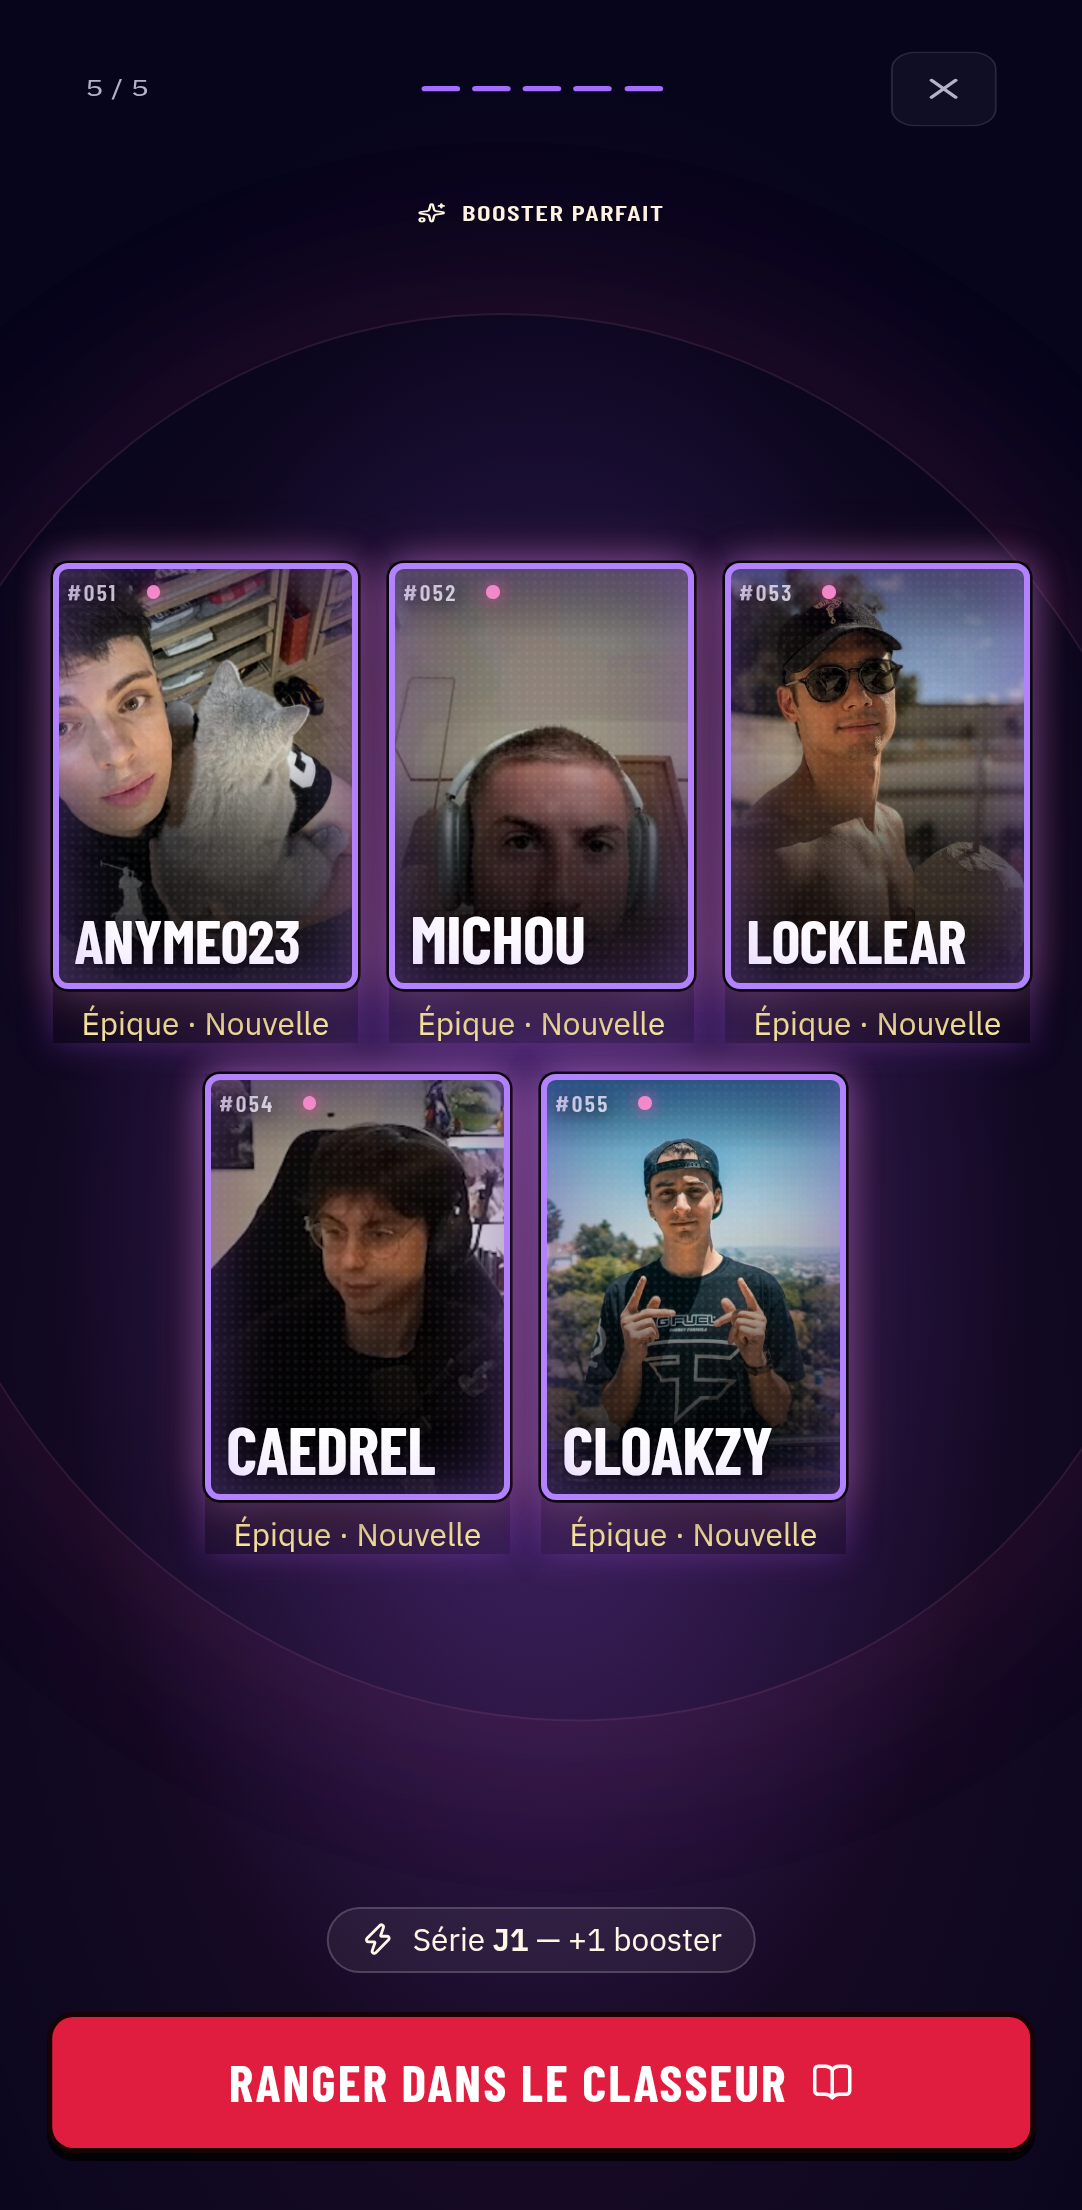
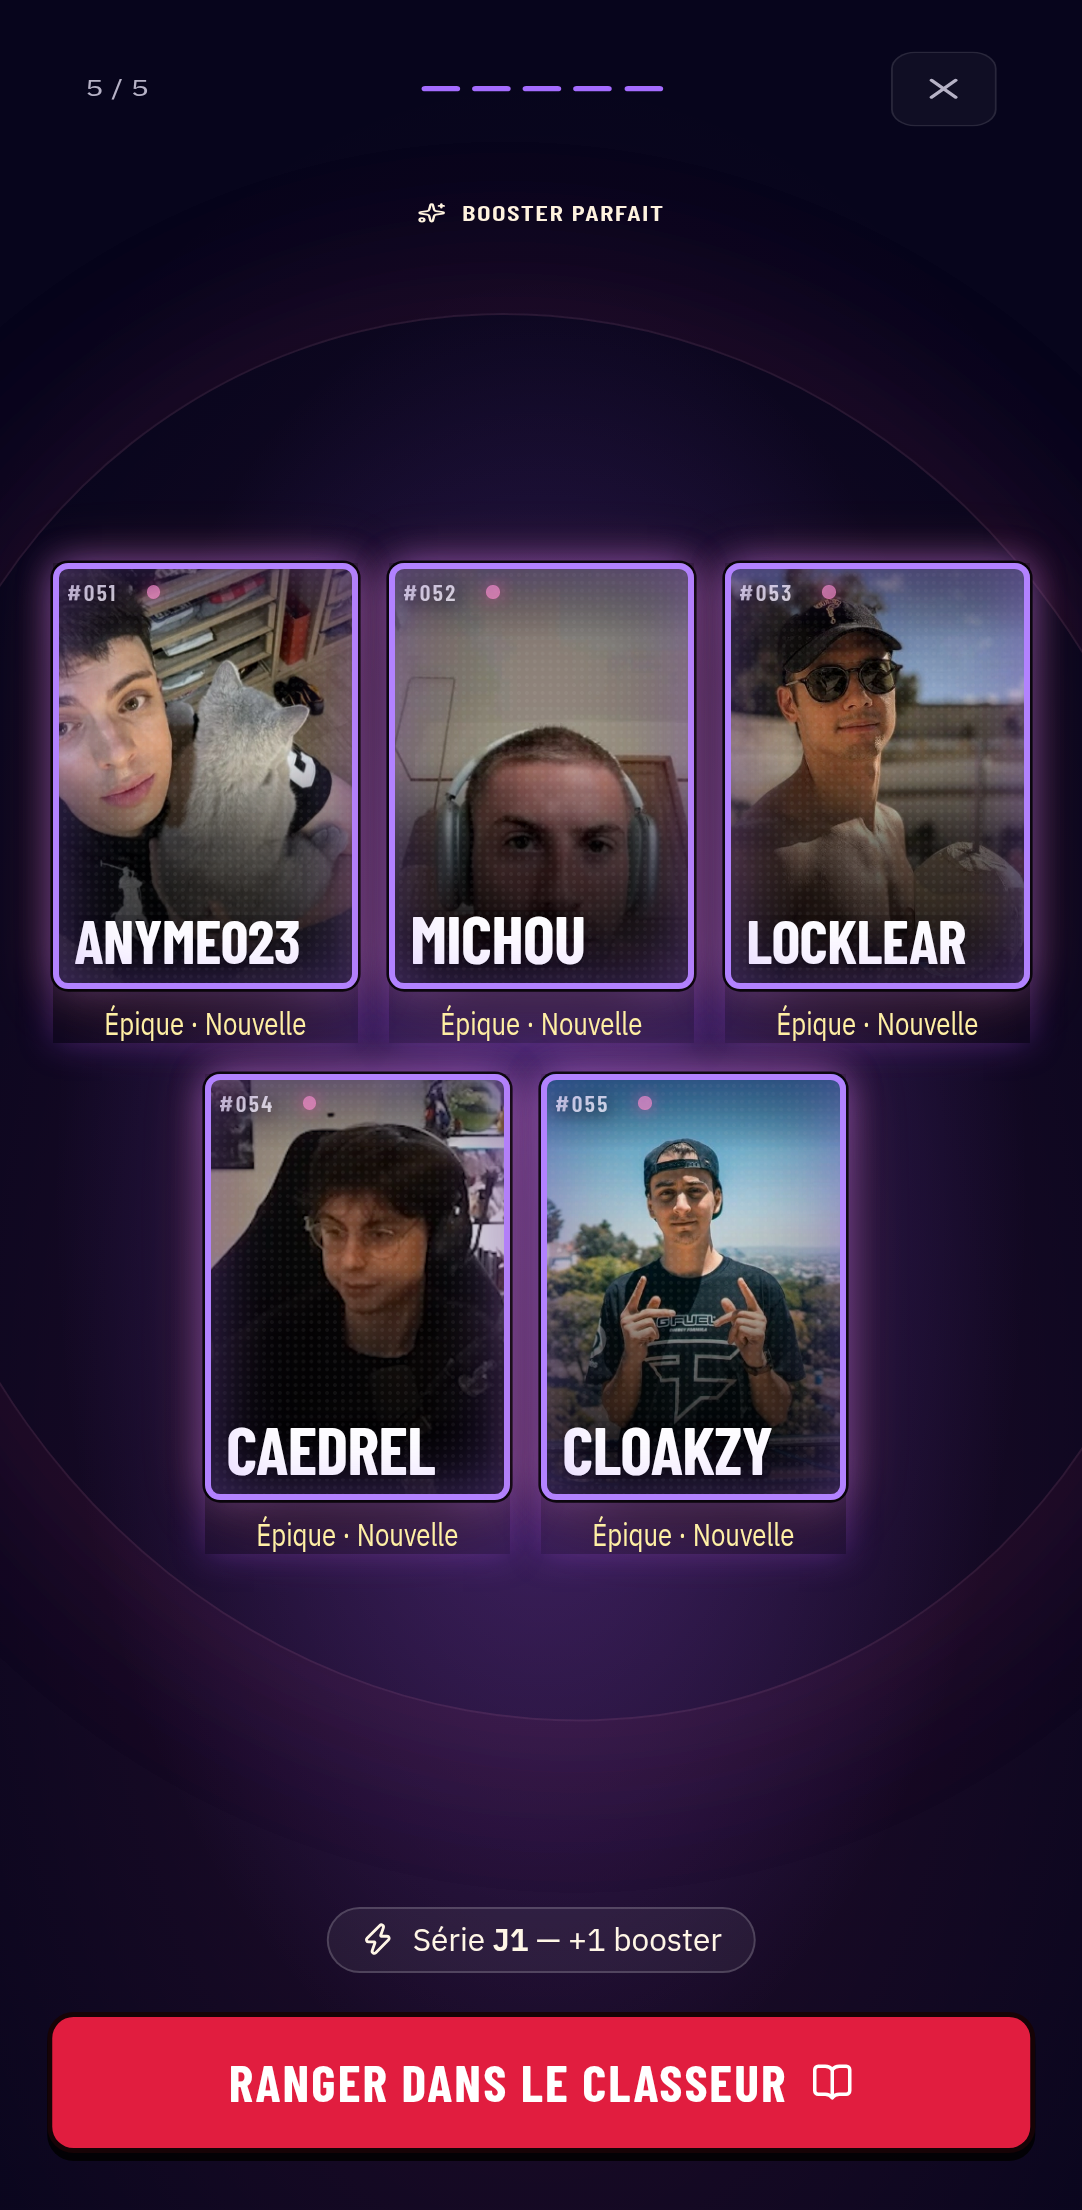
test(ui): valider le booster parfait sur Android et petits écrans

diff --git a/e2e/perfect-recap.spec.ts b/e2e/perfect-recap.spec.ts
@@ -29,6 +29,11 @@ for (const withLive of [true, false]) test(`le booster parfait laisse voir ses c
     await page.evaluate(mode => document.documentElement.dataset.cardFx = mode === "off" ? "off" : "on", mode);
     for (const [width, height] of [[320, 568], [412, 915], [915, 412], [1280, 720]]) {
       await page.setViewportSize({ width, height });
+      await reveal.locator(".reveal-perfect-grid").evaluate(async grid => {
+        await Promise.all(grid.getAnimations({ subtree: true })
+          .filter(animation => animation.effect?.getComputedTiming().iterations !== Infinity)
+          .map(animation => animation.finished.catch(() => {})));
+      });
       const bounds = await reveal.evaluate(root => {
         const box = (node: Element) => { const r = node.getBoundingClientRect(); return { x: r.x, y: r.y, right: r.right, bottom: r.bottom }; };
         const nextPack = root.querySelector(".reveal-next-pack");

diff --git a/docs/agent-handoff.md b/docs/agent-handoff.md
@@ -5,7 +5,9 @@ Malik demande de corriger le dernier problème commité, avec Ponytail. Lot
 identique à `origin/main` après fetch ; aucune PR ouverte, CI précédente verte.
 Le checkout `CreatorDeck-Codex` conserve son ancien chantier et n'est pas modifié.
 
-**Checkpoint local, pas encore publié :** problème reproduit sur APK debug sans
+**Code commité localement, pas encore publié :**
+[`3937b84c`](https://github.com/GoodFight37/CreatorDeck/commit/3937b84cfce6662f01da2f4051bc9c1345ec3a1a).
+Problème reproduit sur APK debug sans
 cloud, émulateur Android API 36, 412 × 842 CSS : cinq encarts de spectateurs
 recouvrent les portraits, cinq noms répétés. Directs simulés par cache local,
 tirage déterministe ; aucune modification de compte ou base distante.
@@ -27,19 +29,35 @@ mouvement). APK/émulateur : quatre parcours réussis, appuis Android natifs,
 normal/réduit/Reflets coupés à 412 × 842 et petit écran 336 × 568, sans erreur JS.
 L'inspection des captures a ensuite révélé les légendes masquées en mode Reflets
 coupés ; un plan de peinture explicite (`position: relative; z-index: 3`) les
-rétablit, confirmé par injection CSS sur l'APK. Intégré au CSS, retest de l'APK
-compilée encore requis ; les E2E Perfect incluent maintenant ce troisième mode.
+rétablit, confirmé par injection CSS puis sur l'APK finale recompilée
+(build + sync + assembleDebug, sortie 0). Retest final **4/4 réussi**, zéro erreur
+JS ; captures normal, réduit, Reflets coupés et 336 × 568 examinées.
+Les E2E Perfect incluent maintenant ce troisième mode. Suite E2E complète lancée
+en configuration sans cloud : **212 réussis, 29 ignorés, 1 échec** en 26,1 min.
+L'échec mesure les cartes encore en animation après bascule de Reflets ; la
+capture montre le retournement en cours. Le test attend maintenant les animations
+finies avant de mesurer. Relance finale bureau **2/2 verte**, téléphone **2/2 vert**
+séparément (une tentative partageant le serveur du run complet a perdu ce serveur
+à la fin de la suite, `ERR_CONNECTION_REFUSED`, et n'est pas comptée comme verte).
 Le lint global a parcouru les bundles/rapports générés locaux et échoué sur ces
 artefacts ; le contrôle ciblé des sources est vert. Aucun contrôle applicatif
 désactivé. Pour le diff CSS historiquement stocké en CRLF :
 `git -c core.whitespace=cr-at-eol diff --check`.
 Preuves/scripts locaux : `reports/recap-parfait-2026-10-24/`.
 
-**Suite précise :** laisser terminer la suite E2E complète déjà lancée
-(`reports/recap-parfait-2026-10-24/e2e.log`), reconstruire l'APK puis retester le
-dernier correctif de peinture, relancer les quatre E2E Perfect sur le CSS final.
-Actualiser le statut du défaut, committer seulement ce lot et publier
-normalement sur `main`, vérifier SHA distant, CI, Vercel et APK publiée.
+**Commandes finales :** `npm run e2e -- --reporter=list
+--output=reports/recap-parfait-2026-10-24/e2e` (variables publiques vides et
+`CREATORDECK_LOCAL_QUALITY=1`) ; relance `npx playwright test
+e2e/perfect-recap.spec.ts --reporter=line` sur bureau puis `--project=téléphone` ;
+`node reports/recap-parfait-2026-10-24/android-recap.mjs final` sur l'APK issue
+de `npm run android:debug` avec les deux variables publiques explicitement vides.
+Le code fonctionnel audité est `3937b84c` ; le commit suivant ne change que le
+test d'attente, les captures et la documentation. Les 29 scénarios ignorés ne
+sont pas annoncés réussis. Pas de SQL modifié, aucune suite SQL relancée.
+
+**Suite précise :** publier normalement les commits locaux sur `main`, puis
+vérifier SHA distant, CI, Vercel et état de l'APK publiée. Aucun essai sur téléphone
+physique ; les directs du test étaient simulés, aucun compte réel testé.
 Modifications préexistantes à préserver : Gradle généré, quatre PNG `pack-tear`,
 bloc Kyara non commité dans cette passation et fichiers non suivis.
 

diff --git a/docs/known-issues.md b/docs/known-issues.md
@@ -1,6 +1,6 @@
-## Booster parfait : récapitulatif encombré — correction locale, 24 octobre 2026
+## Booster parfait : récapitulatif encombré — corrigé et validé localement, 24 octobre 2026
 
-**Suivi : `CreatorDeck-Codex-ohb`, P2 (lisibilité mobile), validation en cours.**
+**Suivi : `CreatorDeck-Codex-ohb`, P2 (lisibilité mobile), correction validée.**
 Malik signale qu'après un booster parfait (« God Pack » dans son message),
 les cartes sont difficiles à voir à cause de l'accumulation d'informations.
 Sa capture Android montre le récapitulatif 5/5 : quatre Épiques et une Légendaire.
@@ -25,7 +25,10 @@ répétés et halos de fond, grille adaptée à la hauteur. Rareté, Nouvelle, c
 lien Twitch, série et minuterie restent accessibles. Tests d'écran ciblés 33/33 ;
 quatre parcours Android réussis et captures inspectées. Un défaut supplémentaire
 de peinture des légendes avec Reflets coupés est corrigé par un plan explicite
-sur la légende ; retest de l'APK finale et E2E complète en cours. Aucun contournement
+sur la légende ; APK finale **4/4** réussie et captures examinées dans les trois
+modes plus petit écran. E2E complète : 212 réussis, 29 ignorés, 1 échec d'attente
+dans le nouveau test ; attente des animations corrigée, relance finale bureau
+2/2 et téléphone 2/2 vertes. Aucun contournement
 nécessaire une fois la correction livrée ; téléphone physique non testé.
 
 Points d'entrée repérés pour la reprise : `src/components/reveal-overlay.tsx`
@@ -37,7 +40,8 @@ Points d'entrée repérés pour la reprise : `src/components/reveal-overlay.tsx`
 Captures de reproduction sur APK/émulateur (directs simulés, pas un téléphone
 physique) : [avant](images/bugs/2026-10-24-booster-parfait-avant-emulateur.png),
 [après](images/bugs/2026-10-24-booster-parfait-apres-emulateur.png),
-[petit écran](images/bugs/2026-10-24-booster-parfait-petit-emulateur.png).
+[petit écran](images/bugs/2026-10-24-booster-parfait-petit-emulateur.png),
+[Reflets coupés](images/bugs/2026-10-24-booster-parfait-reflets-off-emulateur.png).
 
 ## Révélation MEMES : doigt secondaire et sortie de carte — publié, 24 octobre 2026
 

diff --git a/docs/roadmap.md b/docs/roadmap.md
@@ -2,8 +2,10 @@
 
 **Booster parfait, 24 octobre 2026 — D-165 :** correction locale du récapitulatif
 encombré (`CreatorDeck-Codex-ohb`) : portraits dégagés, noms non répétés, titre et
-halos allégés, cinq cartes adaptées à la fenêtre. Dépend de la validation visuelle
-APK/émulateur, petits écrans et mouvements réduits, puis E2E complète et publication.
+halos allégés, cinq cartes adaptées à la fenêtre. Implémenté et validé sur
+APK/émulateur (4 parcours natifs) et navigateur (4 E2E finaux), trois modes,
+petits écrans et paysage ; suite complète exécutée, attente du nouveau test
+corrigée après un échec puis scénarios concernés relancés verts. Publication à vérifier.
 Critères : cinq cartes entières entre titre et bouton, mentions utiles conservées,
 direct accessible et rangement fonctionnel. Pas encore validé sur téléphone réel.
 

diff --git a/docs/decisions.md b/docs/decisions.md
@@ -14,7 +14,10 @@ près de l'action de rangement. Aucune nouvelle vue ni dépendance ; pas de refo
 des cartes du classeur, du tirage, du son ou de la sortie vers Twitch.
 L'inspection de la capture Android avec Reflets coupés montre les légendes
 masquées par le contexte 3D ; un plan de peinture explicite sur la légende les
-rétablit (essai CSS injecté avant intégration, puis retest de l'APK requis).
+rétablit (essai CSS injecté avant intégration, puis APK finale recompilée et
+quatre parcours natifs réussis, captures examinées). Les quatre E2E Perfect
+passent sur le CSS final, trois modes et quatre formats ; le test attend la
+fin des animations avant de mesurer les positions.
 Tests et état de publication : premier checkpoint de `agent-handoff.md`.
 
 ## D-164 — 24 octobre 2026 : alléger l'accueil et les mouvements, préserver les arbitrages produit
